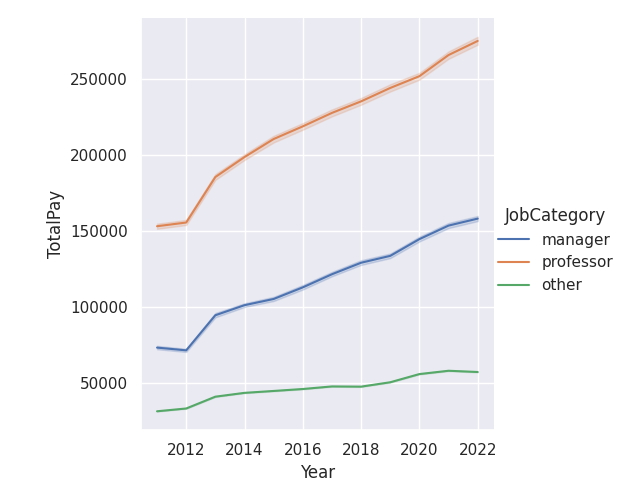
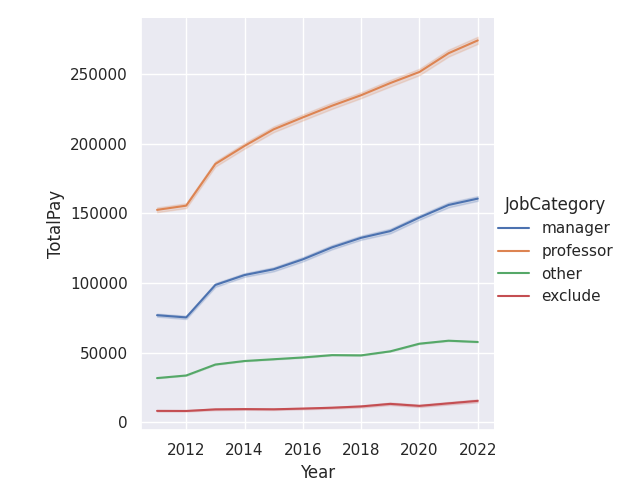
wip

diff --git a/employement/ucla-salary/plot_salary_progression.py b/employement/ucla-salary/plot_salary_progression.py
@@ -14,6 +14,7 @@ def categorize(title):
     manager_code = "manager"
     prof_code = "professor"
     other_code = "other"
+    exclude_code = "exclude"
 
     if '-exec ' in title:
         title = manager_code
@@ -31,6 +32,8 @@ def categorize(title):
         title = manager_code
     elif 'coach' in title:
         title = manager_code
+    elif 'dean' in title:
+        title = manager_code
     elif title.endswith(' prof'):
         title = prof_code
     elif 'prof ' in title:
@@ -39,8 +42,10 @@ def categorize(title):
         title = prof_code
     elif 'professor' in title:
         title = prof_code
-    elif 'dean' in title:
-        title = prof_code
+    elif 'contract' in title:
+        title = exclude_code
+    elif title in ["#MULTIVALUE","#NAME?","?"]:
+        title = exclude_code
     else:
         title = other_code
     return title
@@ -50,6 +55,9 @@ df = pd.read_parquet(rawfname)
 df.Year = df.Year.apply(lambda x: int(x))
 df['JobCategory']= df['Job Title'].apply(lambda x: categorize(x))
 df["TotalPay"] = df["Total Pay & Benefits"].apply(lambda x: int(x))
+cols = ['JobCategory','Job Title']
+tmp = df[cols].drop_duplicates().sort_values(cols)
+tmp.to_csv("job-categories-titles.csv",index=False)
 
 kwargs =dict( 
     x="Year",
@@ -83,7 +91,6 @@ for jobcategory in ["manager","professor","other"]:
         mylist.append(myitem)
 mydf = pd.DataFrame(mylist)
 mydf.to_csv("salary_summary.csv",index=False)
-
 
 kwargs =dict( 
     x="Year",
